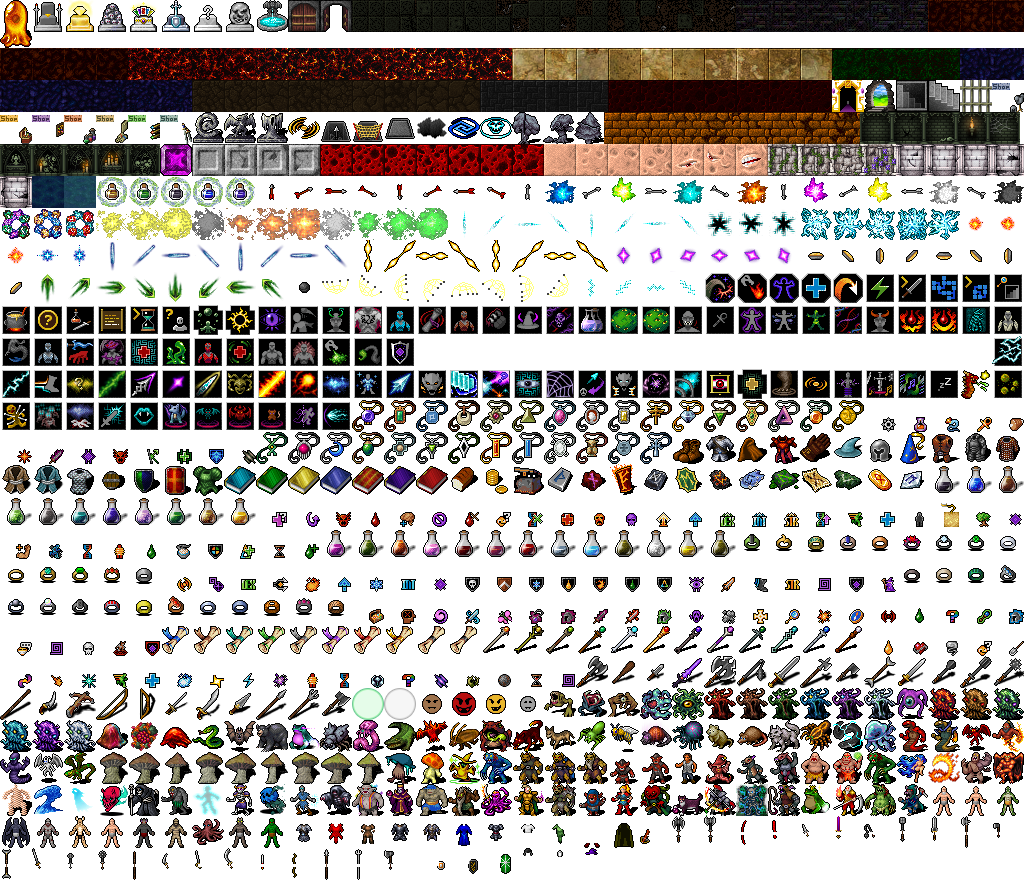
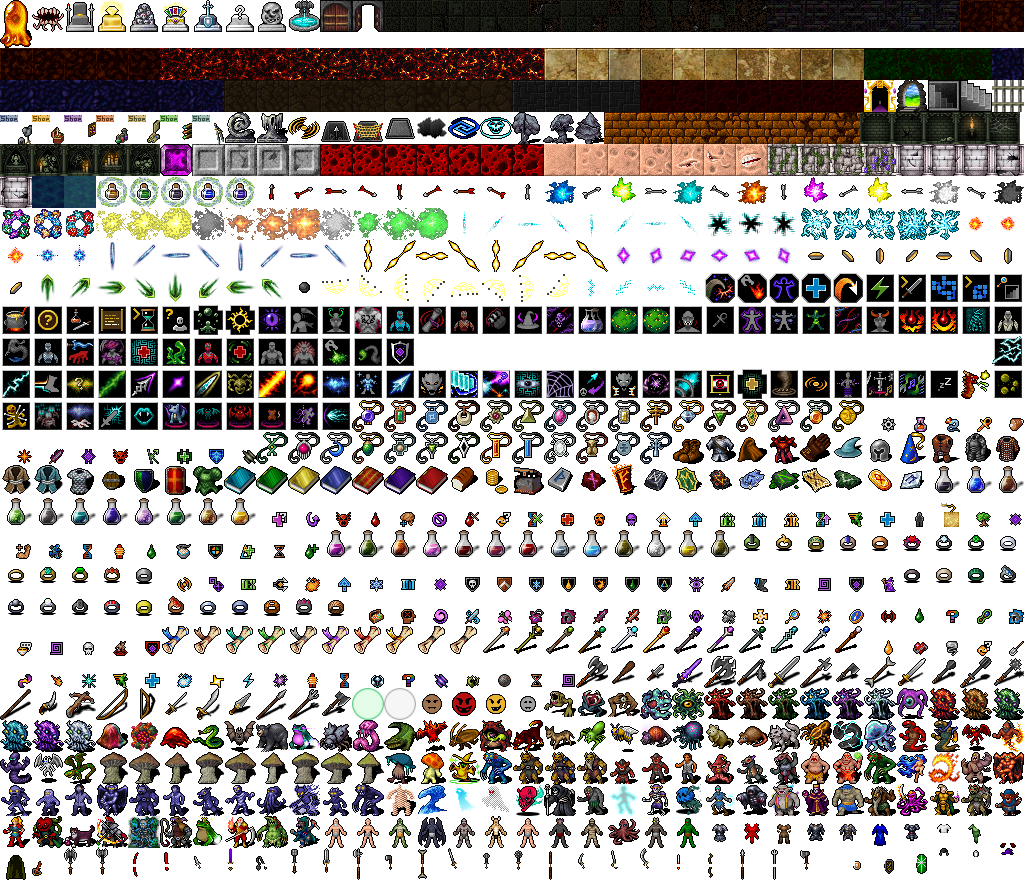
More surprises, sturdier CI test run

Changed region(s): [[0.0, 0.0, 1.0, 0.1841], [0.0, 0.8898, 1.0, 1.0]]

diff --git a/src/data/unrands.ts b/src/data/unrands.ts
@@ -1,0 +1,24 @@
+import type { ArtProp } from '../core/types';
+
+/** Fixed artifacts. Each can appear at most once per run, in place of a random artifact. */
+export interface UnrandDef { id: string; base: string; name: string; desc: string; props: ArtProp[]; ench?: number; ego?: string; minDepth: number }
+
+export const UNRANDS: UnrandDef[] = [
+  { id: 'box', base: 'leather', name: 'The Cardboard Box', desc: 'A cardboard box you can wear. Nobody suspects the box. Nobody.', props: [{ mod: { stealth: 14 }, text: '+14 stealth' }, { mod: { ev: 2 }, text: '+2 EV' }], minDepth: 2 },
+  { id: 'pan', base: 'mace', name: 'The Frying Pan', desc: 'Perfect for eggs, bandits and stopping bullets. Clang.', props: [{ mod: { ac: 4 }, text: '+4 AC' }, { mod: { dmg: 2 }, text: '+2 damage' }], ench: 2, minDepth: 1 },
+  { id: 'crowbar', base: 'mace', name: 'The Crowbar of the Silent Scientist', desc: 'Its last owner never said a single word. Holding it, you feel no need to either.', props: [{ mod: { crit: 10 }, text: '+10% critical chance' }, { mod: { acc: 3 }, text: '+3 accuracy' }], ench: 3, minDepth: 3 },
+  { id: 'konami', base: 'boots', name: 'Boots of Up Up Down Down', desc: 'Left right left right, B, A. You feel like you have an extra life.', props: [{ mod: { flags: ['unbreakable'] }, text: 'survive one killing blow per floor' }, { mod: { moveSpeed: 10 }, text: 'move 10% faster' }], minDepth: 4 },
+  { id: 'yendor', base: 'a_harmless', name: 'A Cheap Plastic Imitation of the Amulet of Yendor', desc: 'It is obviously a fake. It still feels important to carry.', props: [{ mod: { xpPct: 15 }, text: '+15% XP' }, { mod: { stealth: -2 }, text: 'rattles a bit' }], minDepth: 2 },
+  { id: 'precious', base: 'r_stealth', name: 'The Precious', desc: 'A plain gold ring. You keep touching it. You keep calling it... precious.', props: [{ mod: { stealth: 10 }, text: '+10 stealth' }, { mod: { flags: ['see_invis'] }, text: 'see invisible' }, { mod: { wits: -2 }, text: '-2 Wits' }], minDepth: 5 },
+  { id: 'pointy', base: 'rapier', name: 'The Pointy End', desc: 'Stick them with it.', props: [{ mod: { crit: 12 }, text: '+12% critical chance' }, { mod: { backstab: 60 }, text: '+60% damage to helpless foes' }], ench: 3, minDepth: 3 },
+  { id: 'buster', base: 'greatsword', name: 'The Oversized Buster Sword', desc: 'Too big to be called a sword. Massive, thick, heavy and far too rough. Probably compensating.', props: [{ mod: { dmg: 6 }, text: '+6 damage' }, { mod: { speed: -10 }, text: '10% slower' }], ench: 2, minDepth: 7 },
+  { id: 'leeroy', base: 'kite_shield', name: "Leeroy's Shield", desc: '"At least I have shield." Its owner is no longer with us. He was very brave and very loud.', props: [{ mod: { ac: 3 }, text: '+3 AC' }, { mod: { maxHp: 20 }, text: '+20 max HP' }, { mod: { stealth: -10 }, text: 'LEEEEROY (very loud)' }], minDepth: 4 },
+  { id: 'companion', base: 'buckler', name: 'The Weighted Companion Buckler', desc: 'It has a little heart painted on it. It will never threaten to stab you, and in fact cannot speak. If it does speak, disregard its advice.', props: [{ mod: { regen: 3 }, text: '+3 regeneration' }, { mod: { ac: 2 }, text: '+2 AC' }], minDepth: 3 },
+  { id: 'retries', base: 'long_sword', name: 'Blade of a Thousand Retries', desc: 'It has had many owners. Every one of them died. Every death made it sharper.', props: [{ mod: { dmg: 4 }, text: '+4 damage' }, { mod: { xpPct: 10 }, text: '+10% XP' }], ench: 2, minDepth: 5 },
+  { id: 'gandalf', base: 'wizard_hat', name: 'Hat of a Wizard Who Is Never Late', desc: 'He arrives precisely when he means to. So does every spell cast under it.', props: [{ mod: { spellPower: 6 }, text: '+6 spell power' }, { mod: { maxMp: 6 }, text: '+6 MP' }], minDepth: 5 },
+  { id: 'overwhelming', base: 'r_wizardry', name: 'Ring of Power Overwhelming', desc: 'Someone typed a cheat code into this ring. It cost them dearly.', props: [{ mod: { spellPower: 8 }, text: '+8 spell power' }, { mod: { maxHp: -10 }, text: '-10 max HP' }], minDepth: 6 },
+  { id: 'money', base: 'a_life', name: 'Amulet of Show Me The Money', desc: 'Gold just... finds you.', props: [{ mod: { goldPct: 100 }, text: 'double gold' }, { mod: { maxHpPct: 10 }, text: '+10% max HP' }], minDepth: 3 },
+  { id: 'barnaby', base: 'rolling_pin', name: "Barnaby's Rolling Pin", desc: 'Worn smooth by thirty years of kneading. It remembers the shape of every loaf, and one particular hand that held it alongside his.', props: [{ mod: { dmg: 3 }, text: '+3 damage' }, { mod: { maxHp: 10 }, text: '+10 max HP' }, { mod: { regen: 2 }, text: '+2 regeneration' }], ench: 4, minDepth: 6 },
+  { id: 'doom', base: 'battle_axe', name: 'The Axe That Rips and Tears', desc: 'Until it is done.', props: [{ mod: { dmgPct: 20 }, text: '+20% damage' }, { mod: { killHeal: 5 }, text: 'kills heal 5' }], ench: 3, minDepth: 9 },
+  { id: 'sweetroll', base: 'cap', name: 'The Guard\'s Helmet', desc: 'Smells faintly of sweetrolls. You feel an urge to tell people about your knee.', props: [{ mod: { ac: 2 }, text: '+2 AC' }, { mod: { flags: ['see_invis'] }, text: 'see invisible' }], minDepth: 2 },
+];

diff --git a/src/data/monsters.ts b/src/data/monsters.ts
@@ -113,6 +113,9 @@ export const MONSTERS: Record<string, MonsterDef> = Object.fromEntries([
   M({ id: 'bear', name: 'bear', tile: 'mon/animals/black_bear', level: 9, hp: 60, ac: 5, ev: 6, dmg: [4, 9], family: 'beast', rarity: 0, desc: 'A bear. You cannot outrun it, but you are not supposed to: it is yours.' }),
   M({ id: 'loaf_golem', name: 'loaf golem', tile: 'mon/nonliving/flesh_golem', level: 6, hp: 40, ac: 6, ev: 2, dmg: [3, 7], family: 'dough', flags: ['nopoison', 'mindless'], rarity: 0, desc: 'A golem of warm sourdough. It leaves crumbs.' }),
   M({ id: 'imp', name: 'bound imp', tile: 'mon/demons/white_imp', level: 6, hp: 16, ac: 2, ev: 14, dmg: [2, 6], speed: 14, family: 'demon', flags: ['flying'], abilities: [{ id: 'frost_shard', chance: 0.3 }], rarity: 0, desc: 'An imp. It complains about the contract.', lines: ['"This is NOT in my contract."', '"Fine. FINE."'] }),
+  M({ id: 'mimic', name: 'mimic', tile: 'UNUSED/monsters/ravenous_mimic', level: 5, hp: 40, ac: 6, ev: 4, dmg: [3, 6], family: 'flesh', rarity: 0, flags: ['nopoison'], hit: { status: 'entangled', chance: 0.4, turns: 2 }, essence: 0.5, desc: 'It was a box. It is now a mouth. It was always a mouth.', lines: ['"Surprise!"', 'The mimic smacks its lid hungrily.'] }),
+  M({ id: 'player_ghost', name: 'ghost', tile: 'mon/undead/ghost', level: 6, hp: 30, ac: 4, ev: 12, dmg: [3, 6], family: 'undead', rarity: 0, flags: ['flying', 'nopoison', 'see_invis'], abilities: [{ id: 'agony', chance: 0.12 }], essence: 0.5, desc: 'The ghost of an adventurer who died here before you. It still has their face. It still wants what they wanted: to get out.', lines: ['"It\'s so cold down here..."', '"I was so close."', '"Did I... win?"', '"Take my stuff. No, wait, it\'s MINE."'] }),
+  M({ id: 'shadow_twin', name: 'your shadow', tile: 'mon/nonliving/shadows/shadow_human', level: 9, hp: 60, ac: 6, ev: 10, dmg: [3, 7], family: 'humanoid', rarity: 0, flags: ['see_invis', 'nopoison'], abilities: [{ id: 'blink_away', chance: 0.06 }], essence: 1, desc: 'It is you. It has your face, your walk and your bad habits. It is very disappointed in you.', lines: ['"I am you. The you that stayed in bed."', '"You always do that. That thing you just did. I hate it."', '"Only one of us gets out of here."', '"Nice build. I would have taken different talents."'] }),
   M({ id: 'baker', name: 'Barnaby the Baker', tile: 'mon/humanoids/humans/human2', level: 12, hp: 160, ac: 8, ev: 8, dmg: [5, 10], family: 'dough', unique: true, rarity: 0, flags: ['see_invis', 'nopoison'], abilities: [{ id: 'bread_bolt', chance: 0.25 }, { id: 'doughify', chance: 0.12 }, { id: 'loaf_golem', chance: 0.06 }, { id: 'might_self', chance: 0.05 }], desc: 'The baker of Crumbsworth. His apron is clean. His eyes are full of flour.', lines: ['"She is so hungry. You understand. Someone has to feed her."', '"I am sorry. I am so sorry. Hold still."', '"Mother knows best."', '"I gave her my hands, my years, my wife. What did YOU give her?"'], xpMult: 4 }),
   M({ id: 'mother', name: 'Mother', tile: 'mon/unique/royal_jelly', level: 15, hp: 420, ac: 6, ev: 2, dmg: [6, 12], speed: 9, family: 'dough', unique: true, rarity: 0, flags: ['see_invis', 'nopoison', 'boss', 'stationary_ish'], abilities: [{ id: 'mother_spawn', chance: 0.14 }, { id: 'mother_call', chance: 0.12 }, { id: 'mother_rise', chance: 0.05 }, { id: 'baguette_beam', chance: 0.1 }], desc: 'Three hundred years of sourdough starter, fed on flour, then rats, then the baker, then the things beneath the world. She is enormous. She is warm. She loves you.', lines: ['"Come here, little crumb. Come home."', '"I fed your grandmother. I fed your mother. Let me feed on you."', '"Everything rises."', '"You were always going to end up inside me. Everyone does."'], xpMult: 6 }),
 ].map((m) => [m.id, m]));

diff --git a/src/game/levels.ts b/src/game/levels.ts
@@ -18,6 +18,15 @@ export const SHRINES: Record<string, { name: string; tile: string; desc: string;
   mirror: { name: 'Mirror of Second Chances', tile: 'dngn/altars/ecumenical', desc: 'You see yourself, but different.', offer: 'Forget all your talents, and choose them again.' },
 };
 
+export const SHADOW_TILES: Record<string, string> = {
+  human: 'mon/nonliving/shadows/shadow_human', dwarf: 'mon/nonliving/shadows/shadow_dwarf', elf: 'mon/nonliving/shadows/shadow_elf',
+  gnoll: 'mon/nonliving/shadows/shadow_gnoll', kobold: 'mon/nonliving/shadows/shadow_kobold', frog: 'mon/nonliving/shadows/shadow_barachi',
+  troll: 'mon/nonliving/shadows/shadow_troll', spriggan: 'mon/nonliving/shadows/shadow_spriggan', ghoul: 'mon/nonliving/shadows/shadow_revenant',
+  mummy: 'mon/nonliving/shadows/shadow_mummy', octopode: 'mon/nonliving/shadows/shadow_octopode', gargoyle: 'mon/nonliving/shadows/shadow_gargoyle',
+};
+
+export interface GhostInfo { name: string; title: string; level: number; depth: number }
+
 /** Run-start setup: which uniques appear on which floors. */
 export function planUniques(run: Run) {
   const r = rng(run);
@@ -118,10 +127,45 @@ function populate(run: Run, l: Level, rooms: Room[]) {
     if (d !== depth) continue;
     const at = take(spots);
     if (!at) continue;
-    const m = spawnMonster(run, l, id, at.x, at.y, { awake: r.chance(0.5) });
+    const hunting = r.chance(0.3);
+    const m = spawnMonster(run, l, id, at.x, at.y, { awake: hunting || r.chance(0.4) });
+    if (m && hunting) m.lastSeen = { ...l.up[0] };
     const def = MONSTERS[id];
     if (m && def.followers) for (let k = 0; k < r.int(def.followers.n[0], def.followers.n[1]); k++) placeNear(run, l, at, def.followers.id, m.awake);
     if (feeling === 'normal') feeling = 'unique';
+  }
+  // ghosts of previous characters who died at this depth
+  const ghosts: GhostInfo[] = JSON.parse(String(run.flags.ghosts ?? '[]'));
+  const ghost = ghosts.find((g) => g.depth === depth);
+  if (ghost && r.chance(0.6)) {
+    const at = take(spots);
+    const m = at && spawnMonster(run, l, 'player_ghost', at.x, at.y, { awake: false });
+    if (m) {
+      m.name = `the ghost of ${ghost.name} ${ghost.title}`;
+      m.maxHp = m.hp = 12 + ghost.level * 7;
+      m.bonus = Math.floor(ghost.level / 2);
+      feeling = 'unique';
+    }
+    run.flags.ghosts = JSON.stringify(ghosts.filter((g) => g !== ghost));
+  }
+  // your shadow
+  if (depth >= 8 && depth <= 11 && !run.flags.shadow && r.chance(0.35)) {
+    run.flags.shadow = true;
+    const at = take(spots);
+    const m = at && spawnMonster(run, l, 'shadow_twin', at.x, at.y, { awake: false });
+    if (m) {
+      const p = run.player;
+      m.maxHp = m.hp = 20 + p.level * 8;
+      m.bonus = Math.floor(p.level / 2);
+      m.name = `${p.name}'s shadow`;
+      m.tile = SHADOW_TILES[p.ancestry] ?? SHADOW_TILES.human;
+      l.feeling = 'You catch a glimpse of yourself in the dark. You were not holding a mirror.';
+    }
+  }
+  // treasure box (sometimes it bites)
+  if (depth >= 2 && r.chance(0.4)) {
+    const at = take(spots);
+    if (at) l.features.push({ kind: 'chest', x: at.x, y: at.y, id: r.chance(0.3) ? 'mimic' : 'loot' });
   }
   // story: the Baker
   if (depth === 6 && !run.flags.bakerMet) {
@@ -188,7 +232,7 @@ function populate(run: Run, l: Level, rooms: Room[]) {
     const at = take(spots);
     if (at) { l.tiles[at.y * l.w + at.x] = T.FOUNTAIN; l.features.push({ kind: 'fountain', x: at.x, y: at.y, id: 'fountain' }); }
   }
-  l.feeling = r.pick(FEELINGS[feeling]);
+  l.feeling = l.feeling ?? r.pick(FEELINGS[feeling]);
 }
 
 function populateFinal(run: Run, l: Level, spots: Pos[], take: (s: Pos[]) => Pos | null) {

diff --git a/src/game/turn.ts b/src/game/turn.ts
@@ -324,8 +324,13 @@ export function act(run: Run, a: Action): boolean {
       if (a.choice === 'gift') {
         msg(run, '"Here. Take these. My wife made them, before." He presses two warm flasks into your hands, and a folded note.', 'story');
         addToInventory(run, makeItem(run, 'p_heal', { qty: 2 }));
-        addToInventory(run, makeItem(run, 'p_experience'));
-        learn(run, 'p_heal'); learn(run, 'p_experience');
+        learn(run, 'p_heal');
+        const pin = makeItem(run, 'rolling_pin', { known: true });
+        pin.art = { name: "Barnaby's Rolling Pin", desc: 'Worn smooth by thirty years of kneading. It remembers the shape of every loaf, and one particular hand that held it alongside his.', props: [{ mod: { dmg: 3 }, text: '+3 damage' }, { mod: { maxHp: 10 }, text: '+10 max HP' }, { mod: { regen: 2 }, text: '+2 regeneration' }], unrand: 'barnaby' };
+        pin.ench = 4;
+        run.flags.unrands = [String(run.flags.unrands ?? ''), 'barnaby'].filter(Boolean).join(',');
+        if (!addToInventory(run, pin)) cur(run).items.push({ x: p.x, y: p.y, item: pin, seen: true });
+        msg(run, '"And this. My rolling pin. Hettie gave it to me on our wedding day. I won\'t be needing it where I\'m going."', 'story');
         msg(run, '"I have to go down. She is waiting. Don\'t follow me." He walks away into the dark.', 'story');
         l.monsters = l.monsters.filter((m) => m !== baker);
       } else {
@@ -387,11 +392,35 @@ function arrive(run: Run) {
     else if (f.kind === 'shop') { popups.push({ type: 'shop' }); }
     else if (f.kind === 'shrine' && !f.used) popups.push({ type: 'shrine', id: f.id });
     else if (f.kind === 'note' && !f.used) { f.used = true; popups.push({ type: 'note', title: 'A notice on the wall', text: String(f.data?.text ?? '') }); }
+    else if (f.kind === 'chest' && !f.used) openChest(run, f);
   }
   const t = tileAt(l, p.x, p.y);
   if (t === T.DOWN) msg(run, 'There are stairs down here.', 'dim');
   if (t === T.UP) msg(run, 'There are stairs up here.', 'dim');
   if (t === T.SHALLOW && r.chance(0.05)) msg(run, 'Your boots squelch.', 'dim');
+}
+
+function openChest(run: Run, f: { id: string; x: number; y: number; used?: boolean }) {
+  const r = rng(run);
+  const l = cur(run);
+  f.used = true;
+  view.interrupt = true;
+  if (f.id === 'mimic') {
+    const m = spawnMonster(run, l, 'mimic', f.x, f.y, { awake: true });
+    if (m) {
+      const spot = nearestFree(run, l, f, (x, y) => walkable(l.tiles[y * l.w + x]), 2);
+      if (spot) { m.x = spot.x; m.y = spot.y; }
+      m.maxHp = m.hp = 20 + run.depth * 9;
+      m.bonus = Math.floor(run.depth / 2);
+      (m.carried ??= []).push(randomItem(run, run.depth + 3, { good: true }));
+    }
+    msg(run, r.pick(['You open the box. The box opens YOU. It\'s a mimic!', 'The box has teeth. Lots of teeth. MIMIC!', 'You reach for the lid and the lid reaches back. Mimic!']), 'bad');
+    pushFx({ kind: 'shake' });
+    return;
+  }
+  const n = r.int(2, 3);
+  for (let i = 0; i < n; i++) l.items.push({ x: f.x, y: f.y, item: r.chance(0.3) ? makeItem(run, 'gold', { qty: r.int(10, 20 + run.depth * 8) }) : randomItem(run, run.depth + 2, { good: r.chance(0.35) }), seen: true });
+  msg(run, r.pick(['You open the box. Loot! Glorious loot!', 'The box creaks open. Treasure!', 'You open the box. It was just a box. A box full of stuff!']), 'good');
 }
 
 function triggerTrap(run: Run, f: { id: string; hidden?: boolean; x: number; y: number }) {

diff --git a/src/ui/panels.ts b/src/ui/panels.ts
@@ -44,6 +44,7 @@ function itemInfo(ui: GameUI, it: Item): string {
   } else if (it.kind === 'essence') lines.push(`<p>The distilled essence of a ${esc(it.family ?? '')} creature. Absorb it to gain a ${esc(it.family ?? '')} mutation (up to ${MUTATION_SLOTS}; more will replace an old one).</p>`);
   else if (it.kind === 'tome') lines.push(`<p>A tome of ${esc(DISCIPLINES[it.base.slice(5)]?.name ?? '')}. ${esc(DISCIPLINES[it.base.slice(5)]?.desc ?? '')} Reading it lets you learn from this discipline.</p>`);
   else if (it.kind === 'note') lines.push('<p>Something written by someone who was here before you.</p>');
+  if (it.art?.desc && it.known) lines.unshift(`<p class="story">${esc(it.art.desc)}</p>`);
   if (it.art && it.known) lines.push(`<p class="props">${it.art.props.map((p) => esc(p.text)).join(' · ')}</p>`);
   if (it.cursed && it.known) lines.push('<p class="m-bad">Cursed: once worn, it will not come off.</p>');
   if (!it.known && isEquipment(it) && (it.kind === 'weapon' || it.kind === 'armour')) lines.push('<p class="m-dim">Its enchantment is unknown until you use it.</p>');
@@ -305,11 +306,12 @@ export function examine(ui: GameUI, cell: Pos) {
     const hpTxt = m.hp >= m.maxHp ? 'unhurt' : m.hp > m.maxHp * 0.6 ? 'lightly wounded' : m.hp > m.maxHp * 0.3 ? 'badly wounded' : 'almost dead';
     const sts = Object.keys(m.statuses).filter((k) => STATUSES[k] && k !== 'invisible').map((k) => STATUSES[k].name.toLowerCase());
     const color = { trivial: 'var(--dim)', easy: 'var(--good)', tough: 'var(--warn)', nasty: 'var(--bad)' }[th];
-    parts.push(`<div class="detail"><div style="display:flex;gap:10px;align-items:center">${icon(d.tile, 56, m.id)}<div><b style="font-size:18px">${esc(m.name ?? d.name)}</b><div class="sub" style="color:${color}">${m.ally ? 'Your ally' : m.friendly ? 'Not hostile' : th === 'nasty' ? 'Extremely dangerous' : th === 'tough' ? 'Dangerous' : th === 'easy' ? 'Manageable' : 'Harmless'} · ${hpTxt}${m.awake ? '' : ' · unaware'}${sts.length ? ' · ' + sts.join(', ') : ''}</div></div></div><p>${esc(d.desc)}</p></div>`);
+    parts.push(`<div class="detail"><div style="display:flex;gap:10px;align-items:center">${icon(m.tile ?? d.tile, 56, m.id)}<div><b style="font-size:18px">${esc(m.name ?? d.name)}</b><div class="sub" style="color:${color}">${m.ally ? 'Your ally' : m.friendly ? 'Not hostile' : th === 'nasty' ? 'Extremely dangerous' : th === 'tough' ? 'Dangerous' : th === 'easy' ? 'Manageable' : 'Harmless'} · ${hpTxt}${m.awake ? '' : ' · unaware'}${sts.length ? ' · ' + sts.join(', ') : ''}</div></div></div><p>${esc(d.desc)}</p></div>`);
   }
   for (const fi of l.items.filter((o) => o.x === cell.x && o.y === cell.y)) parts.push(`<div class="item" style="cursor:default">${icon(itemTile(run, fi.item), 32, fi.item.id)}<div class="nm">${esc(itemName(run, fi.item))}</div></div>`);
   const f = l.features.find((o) => o.x === cell.x && o.y === cell.y && !(o.kind === 'trap' && o.hidden));
   if (f?.kind === 'trap') parts.push(`<p class="m-warn">A ${esc(f.id)} trap.</p>`);
+  if (f?.kind === 'chest' && !f.used) parts.push('<p>A sturdy box. Probably full of treasure. Probably.</p>');
   if (f?.kind === 'shop') parts.push(`<p>${esc(String(f.data?.name ?? 'A shop'))}.</p>`);
   if (f?.kind === 'shrine') parts.push(`<p><b>${esc(SHRINES[f.id].name)}</b>. ${esc(SHRINES[f.id].desc)}${f.used ? ' It is quiet now.' : ''}</p>`);
   const t = l.tiles[i];

diff --git a/src/game/combat.ts b/src/game/combat.ts
@@ -86,10 +86,38 @@ export function damage(run: Run, t: ActorBase, amount: number, el: Element, opts
     if (opts.source && isPlayer(opts.source)) run.stats.damageDealt += dmg;
     m.awake = true;
     if (m.statuses.asleep) delete m.statuses.asleep;
+    if (m.def === 'mother' && m.hp > 0) motherPhase(run, m);
     if (m.hp <= 0) monsterDies(run, m, opts.source ?? null);
     else if (!opts.noSplit && monDef(m).flags?.includes('splits') && dmg >= 4 && (m.split ?? 0) < 3) split(run, m);
   }
   return dmg;
+}
+
+function motherPhase(run: Run, m: Monster) {
+  const phase = Number(run.flags.motherPhase ?? 0);
+  const frac = m.hp / m.maxHp;
+  const l = cur(run);
+  const spawn = (n: number) => {
+    for (let i = 0; i < n; i++) {
+      const spot = nearestFree(run, l, m, (x, y) => walkable(l.tiles[y * l.w + x]), 3);
+      if (!spot) break;
+      const s = { id: run.nextId++, def: 'starter_spawn', x: spot.x, y: spot.y, hp: 30, maxHp: 30, energy: 0, statuses: {}, awake: true, cooldowns: {} } as Monster;
+      l.monsters.push(s);
+    }
+  };
+  if (phase < 1 && frac < 0.66) {
+    run.flags.motherPhase = 1;
+    msg(run, 'Mother shudders. Lumps of her break away and crawl toward you.', 'bad');
+    msg(run, 'Mother: "Why are you hurting me? I only ever fed you."', 'speech');
+    spawn(4);
+  } else if (phase < 2 && frac < 0.33) {
+    run.flags.motherPhase = 2;
+    msg(run, 'Mother RISES. She fills half the chamber. The air is thick with yeast.', 'bad');
+    msg(run, `Mother speaks in your grandmother's voice: "${run.player.name}. Come home. Come home and be bread."`, 'speech');
+    addStatus(run, m, 'risen', 60, 8);
+    addStatus(run, m, 'haste', 10);
+    spawn(5);
+  }
 }
 
 function split(run: Run, m: Monster) {
@@ -298,7 +326,7 @@ export function monsterAttack(run: Run, m: Monster, t: Player | Monster) {
       return;
     }
     if (s.block && r.chance(s.block / 100)) { msg(run, `You block ${name(run, m)}'s attack.`, 'dim'); return; }
-    let dmg = r.roll(def.dmg[0], def.dmg[1]);
+    let dmg = r.roll(def.dmg[0], def.dmg[1]) + (m.bonus ?? 0);
     if (m.statuses.weak) dmg *= 0.7;
     if (m.statuses.risen) dmg += m.statuses.risen.power ?? 4;
     if (m.statuses.berserk) dmg *= 1.5;

diff --git a/src/game/fov.ts b/src/game/fov.ts
@@ -1,10 +1,10 @@
 import type { Pos } from '../core/geom';
 import type { Run } from '../core/types';
 import { computeFov } from '../world/fov';
-import { blocksSight, cur, view } from './state';
+import { blocksSight, cur, msg, view } from './state';
 import { playerStats } from './stats';
 import { THEMES } from '../data/terrain';
-import { monDef } from './combat';
+import { monDef, threat } from './combat';
 
 export function updateFov(run: Run) {
   const l = cur(run);
@@ -22,7 +22,13 @@ export function updateFov(run: Run) {
     if (!view.visible.has(m.y * l.w + m.x)) continue;
     if (m.statuses.invisible && !s.flags.has('see_invis')) continue;
     if (!before.has(m.id)) view.newlySeen.push(m);
-    if (!m.noticed) { m.noticed = true; }
+    if (!m.noticed) {
+      m.noticed = true;
+      const def = monDef(m);
+      const th = threat(run, m);
+      if (def.unique) msg(run, `${m.name ?? def.name} is here!`, 'warn');
+      else msg(run, `${/^[aeiou]/i.test(def.name) ? 'An' : 'A'} ${def.name} comes into view${th === 'nasty' ? '. It looks extremely dangerous' : th === 'tough' ? '. It looks dangerous' : ''}.`, th === 'nasty' || th === 'tough' ? 'warn' : 'dim');
+    }
   }
   if (view.newlySeen.length) view.interrupt = true;
   for (const it of l.items) if (view.visible.has(it.y * l.w + it.x)) it.seen = true;

diff --git a/src/game/run.ts b/src/game/run.ts
@@ -6,7 +6,7 @@ import { MONSTERS } from '../data/monsters';
 import { cur, msg, setMonsterNamer, view } from './state';
 import { addToInventory, isEquipment, learn, makeItem, rollAppearances } from './items';
 import { playerStats } from './stats';
-import { createLevel, planUniques } from './levels';
+import { createLevel, planUniques, type GhostInfo } from './levels';
 import { updateFov } from './fov';
 import { autoQuickSlot, playerAbilities } from './progression';
 
@@ -14,7 +14,7 @@ setMonsterNamer((m) => MONSTERS[m.def]?.name ?? m.def);
 
 export const SAVE_VERSION = 1;
 
-export function newRun(seed: number, name: string, ancestryId: string, callingId: string): Run {
+export function newRun(seed: number, name: string, ancestryId: string, callingId: string, ghosts: GhostInfo[] = []): Run {
   const anc = ANCESTRIES.find((a) => a.id === ancestryId)!;
   const cal = CALLINGS.find((c) => c.id === callingId)!;
   const r = new Rng(seed);
@@ -59,6 +59,7 @@ export function newRun(seed: number, name: string, ancestryId: string, callingId
   // everyone starts knowing curing
   learn(run, 'p_curing');
   planUniques(run);
+  run.flags.ghosts = JSON.stringify(ghosts.filter((g) => g.depth > 1 && g.depth < 15).slice(0, 8));
   run.levels[1] = createLevel(run, 1);
   const l = cur(run);
   l.visited = true;

diff --git a/src/ui/app.ts b/src/ui/app.ts
@@ -87,7 +87,8 @@ export class App {
       if (t.closest('[data-back]')) this.title();
       if (t.closest('[data-go]')) {
         const seed = (Math.random() * 2 ** 31) >>> 0;
-        const run = newRun(seed, (name || 'Nobody').trim().slice(0, 20), anc, cal);
+        const ghosts = hallOfFame().filter((h) => h.result === 'dead').map((h) => ({ name: h.name, title: `the ${h.ancestry} ${h.calling}`, level: h.level, depth: h.depth }));
+        const run = newRun(seed, (name || 'Nobody').trim().slice(0, 20), anc, cal, ghosts);
         saveRun(run);
         this.play(run);
       }
@@ -118,6 +119,7 @@ export class App {
         ${run.stats.potions} potions drunk · ${run.stats.scrolls} scrolls read<br>
         ${run.stats.uniques.length ? `Slew: ${run.stats.uniques.map(esc).join(', ')}` : 'No notable kills.'}
       </div>
+      <div class="info" style="max-width:360px;width:100%;text-align:left;font-size:13px">${run.messages.slice(-6).map((m) => `<div class="${m.cls ? 'm-' + m.cls : ''}">${esc(m.text)}</div>`).join('')}</div>
       <div class="m-dim" style="font-family:var(--pixel)">${esc(quip)}</div>
       <div class="menu-col"><button class="btn primary" data-t="new">Try again</button><button class="btn" data-t="title">Title</button></div>
     </div>`;

diff --git a/src/core/types.ts b/src/core/types.ts
@@ -61,6 +61,8 @@ export interface Monster extends ActorBase {
   carried?: Item[]; // stolen goods, dropped on death
   returned?: boolean;
   friendly?: boolean; // neutral NPC: never attacks, never attacked by allies
+  tile?: string; // tile override
+  bonus?: number; // extra melee damage (scaled monsters: ghosts, shadows, mimics)
   talked?: boolean;
 }
 
@@ -75,7 +77,7 @@ export interface Item {
   qty: number;
   ench?: number;
   ego?: string;
-  art?: { name: string; props: ArtProp[]; tile?: string };
+  art?: { name: string; props: ArtProp[]; tile?: string; desc?: string; unrand?: string };
   charges?: number;
   cursed?: boolean;
   known?: boolean; // enchant/ego/artifact props revealed
@@ -85,7 +87,7 @@ export interface Item {
 
 export interface FloorItem { x: number; y: number; item: Item; seen?: boolean }
 
-export type FeatureKind = 'trap' | 'shop' | 'shrine' | 'fountain' | 'note' | 'npc' | 'event';
+export type FeatureKind = 'trap' | 'shop' | 'shrine' | 'fountain' | 'note' | 'npc' | 'event' | 'chest';
 export interface Feature {
   kind: FeatureKind;
   x: number; y: number;

diff --git a/src/game/items.ts b/src/game/items.ts
@@ -6,6 +6,7 @@ import {
 } from '../data/items';
 import { ART_ADJ, ART_NOUN, ART_TITLES, NOTES } from '../data/flavor';
 import { DISCIPLINES } from '../data/talents';
+import { UNRANDS } from '../data/unrands';
 import { newId, rng } from './state';
 
 export function kindOf(base: string): ItemKind {
@@ -241,6 +242,18 @@ const ART_BAD: { make: (r: Rng) => { mod: Mods; text: string } }[] = [
 
 export function makeArtifact(run: Run, it: Item, lvl: number): Item {
   const r = rng(run);
+  const used = String(run.flags.unrands ?? '').split(',');
+  const fixed = UNRANDS.filter((u) => !used.includes(u.id) && u.minDepth <= lvl && kindOf(u.base) === it.kind);
+  if (fixed.length && r.chance(0.3)) {
+    const u = r.pick(fixed);
+    run.flags.unrands = [...used.filter(Boolean), u.id].join(',');
+    it.base = u.base;
+    it.art = { name: u.name, props: u.props, desc: u.desc, unrand: u.id };
+    it.ench = u.ench ?? it.ench ?? 0;
+    it.ego = u.ego;
+    it.cursed = false;
+    return it;
+  }
   const props = [];
   const n = r.int(2, lvl > 8 ? 4 : 3);
   const chosen = new Set<number>();

diff --git a/src/ui/renderer.ts b/src/ui/renderer.ts
@@ -132,7 +132,7 @@ export class Renderer {
         if (t === T.DOWN && run.depth === 14) key = 'dngn/gateways/enter_zot_open';
         if (key) drawTile(ctx, key, h, dx, dy, ts);
         if (f && f.kind === 'trap' && !f.hidden) drawTile(ctx, TRAP_TILES[f.id] ?? 'dngn/traps/pressure_plate', 0, dx, dy, ts);
-        if (f && f.kind === 'note') drawTile(ctx, 'dngn/statues/statue_tengu', 0, dx, dy, ts, 0);
+        if (f && f.kind === 'chest' && !f.used) drawTile(ctx, 'item/misc/misc_box_of_beasts', 0, dx, dy, ts);
       }
     }
     // items
@@ -185,7 +185,7 @@ export class Renderer {
     if (m.ally) drawTile(ctx, 'misc/halo_friendly', 0, dx, dy, ts);
     if (m.friendly) drawTile(ctx, 'misc/halo_neutral', 0, dx, dy, ts);
     const ghost = m.statuses.invisible ? 0.45 : 1;
-    drawTile(ctx, def.tile, m.id, dx, dy, ts, ghost);
+    drawTile(ctx, m.tile ?? def.tile, m.id, dx, dy, ts, ghost);
     // health bar
     if (m.hp < m.maxHp) {
       const f = Math.max(0, m.hp / m.maxHp);
